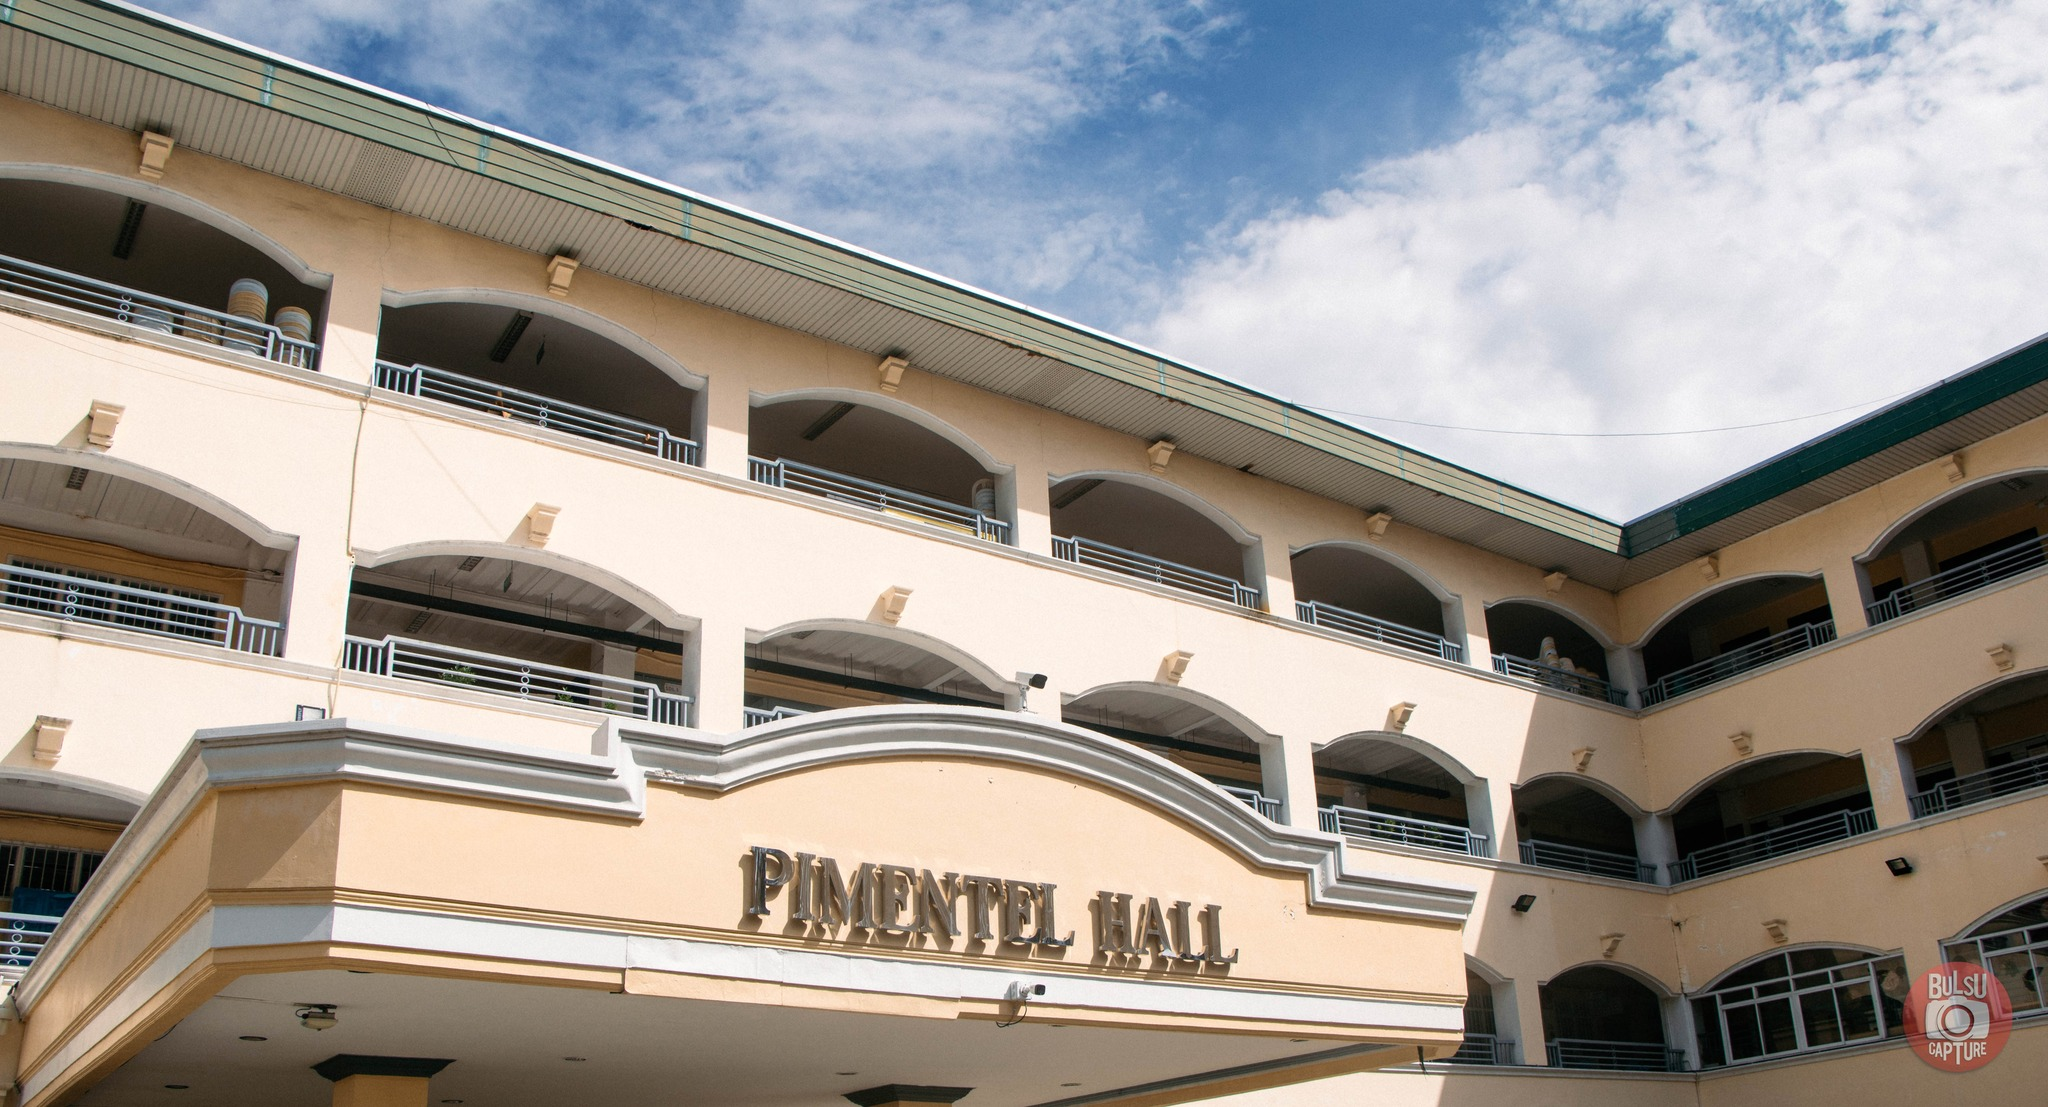
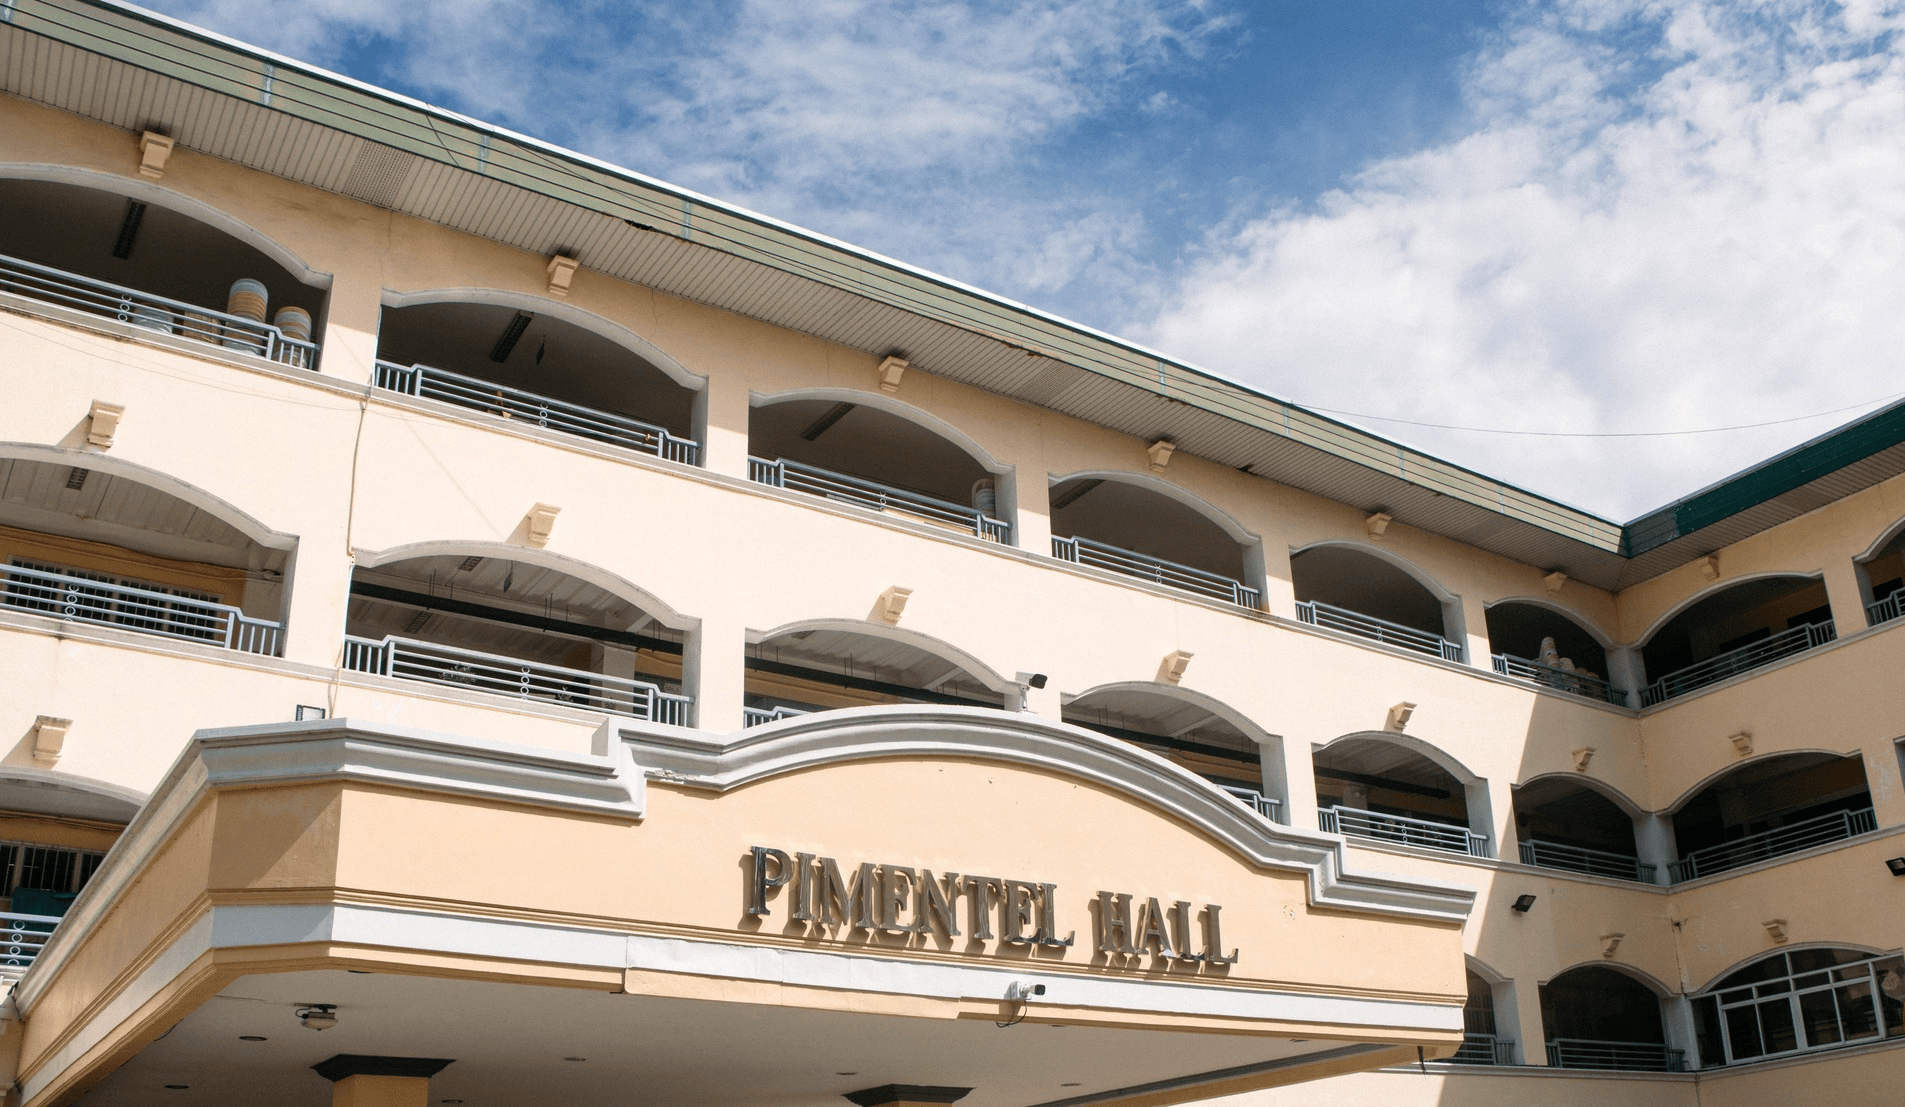
style(bg): add bg for dashboard

diff --git a/resources/js/pages/admin/dashboard.tsx b/resources/js/pages/admin/dashboard.tsx
@@ -144,7 +144,17 @@ export default function AdminDashboard({
     return (
         <AppLayout breadcrumbs={breadcrumbs}>
             <Head title="Admin Dashboard" />
-            <div className="space-y-6 p-6">
+            <div className="relative">
+                {/* Full Background Image - covers entire main content area */}
+                <div
+                    className="absolute inset-0 bg-cover bg-center bg-no-repeat opacity-70 dark:opacity-50 bg-fixed"
+                    style={{backgroundImage: 'url(/images/pimentel.jpg)'}}
+                />
+                {/* Background Overlay */}
+                <div className="absolute inset-0 bg-background/80 dark:bg-background/90" />
+                
+                {/* Content Container with padding */}
+                <div className="relative z-10 space-y-6 p-6">
                 {/* Header */}
                 <div className="flex items-center justify-between">
                     <div>
@@ -152,10 +162,6 @@ export default function AdminDashboard({
                         <p className="text-muted-foreground">
                             Comprehensive insights and trends for the SIP system
                         </p>
-                    </div>
-                    <div className="flex items-center space-x-2">
-                        <TrendingUpIcon className="h-5 w-5 text-green-500" />
-                        <span className="text-sm text-muted-foreground">Current Data</span>
                     </div>
                 </div>
 
@@ -328,6 +334,7 @@ export default function AdminDashboard({
                             </div>
                         </CardContent>
                     </Card>
+                </div>
                 </div>
             </div>
         </AppLayout>

diff --git a/resources/js/pages/student/dashboard.tsx b/resources/js/pages/student/dashboard.tsx
@@ -143,7 +143,17 @@ export default function StudentDashboard({
     return (
         <AppLayout breadcrumbs={breadcrumbs}>
             <Head title="Student Dashboard" />
-            <div className="flex h-full flex-1 flex-col gap-4 rounded-xl p-4 md:p-6">
+            <div className="relative">
+                {/* Full Background Image - covers entire main content area */}
+                <div
+                    className="absolute inset-0 bg-cover bg-center bg-no-repeat opacity-70 dark:opacity-50 bg-fixed"
+                    style={{backgroundImage: 'url(/images/pimentel.jpg)'}}
+                />
+                {/* Background Overlay */}
+                <div className="absolute inset-0 bg-background/80 dark:bg-background/90" />
+                
+                {/* Content Container with padding */}
+                <div className="relative z-10 flex h-full flex-1 flex-col gap-4 rounded-xl p-4 md:p-6">
                 {/* Hello Header */}
                 <div className="bg-card border rounded-lg p-6">
                     <div className="flex flex-col sm:flex-row sm:items-center sm:justify-between gap-4">
@@ -276,6 +286,7 @@ export default function StudentDashboard({
                         currentMatch={currentMatch}
                     />
                 )}
+                </div>
             </div>
         </AppLayout>
     );

diff --git a/resources/js/pages/adviser/dashboard.tsx b/resources/js/pages/adviser/dashboard.tsx
@@ -133,7 +133,17 @@ export default function AdviserDashboard({ stats, recentAssessments, placementOv
     return (
         <AppLayout breadcrumbs={breadcrumbs}>
             <Head title="Dashboard" />
-            <div className="flex h-full flex-1 flex-col gap-6 rounded-xl p-4">
+            <div className="relative">
+                {/* Full Background Image - covers entire main content area */}
+                <div
+                    className="absolute inset-0 bg-cover bg-center bg-no-repeat opacity-70 dark:opacity-50 bg-fixed"
+                    style={{backgroundImage: 'url(/images/pimentel.jpg)'}}
+                />
+                {/* Background Overlay */}
+                <div className="absolute inset-0 bg-background/80 dark:bg-background/90" />
+                
+                {/* Content Container with padding */}
+                <div className="relative z-10 flex h-full flex-1 flex-col gap-6 rounded-xl p-4">
                 {/* Section Header */}
                 <div className="flex items-center justify-between">
                     <div>
@@ -363,7 +373,6 @@ export default function AdviserDashboard({ stats, recentAssessments, placementOv
                         </CardContent>
                     </Card>
                 </div>
-
             </div>
         </AppLayout>
     );

diff --git a/resources/js/pages/hte/dashboard.tsx b/resources/js/pages/hte/dashboard.tsx
@@ -123,7 +123,17 @@ export default function HTEDashboardPage() {
     return (
         <AppLayout breadcrumbs={breadcrumbs}>
             <Head title="HTE Dashboard" />
-                <div className="flex h-full flex-1 flex-col gap-6 rounded-xl p-6">
+            <div className="relative">
+                {/* Full Background Image - covers entire main content area */}
+                <div
+                    className="absolute inset-0 bg-cover bg-center bg-no-repeat opacity-70 dark:opacity-50 bg-fixed"
+                    style={{backgroundImage: 'url(/images/pimentel.jpg)'}}
+                />
+                {/* Background Overlay */}
+                <div className="absolute inset-0 bg-background/80 dark:bg-background/90" />
+                
+                {/* Content Container with padding */}
+                <div className="relative z-10 flex h-full flex-1 flex-col gap-6 rounded-xl p-6">
                 {/* Header */}
                 <div className="space-y-2">
                     <h1 className="text-3xl font-bold tracking-tight">Company Dashboard</h1>
@@ -288,6 +298,7 @@ export default function HTEDashboardPage() {
                 </Card>
 
 
+                </div>
             </div>
         </AppLayout>
     );
